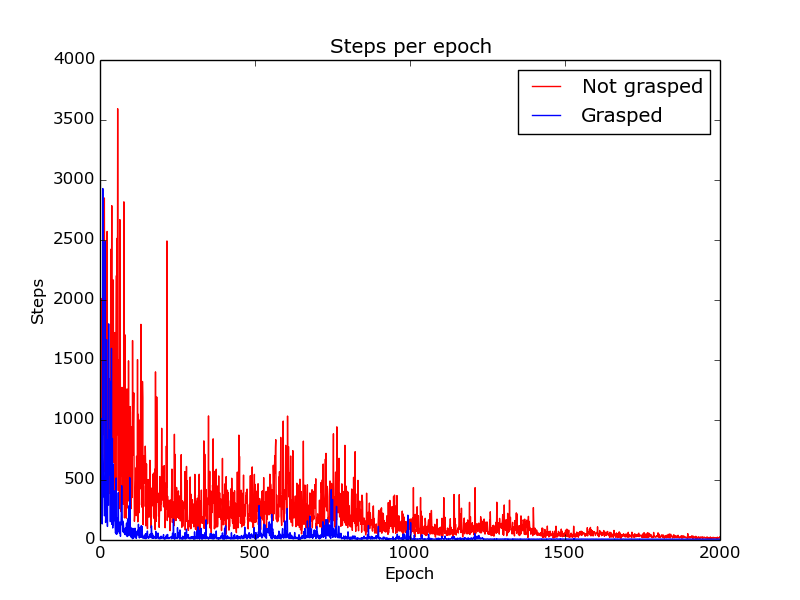
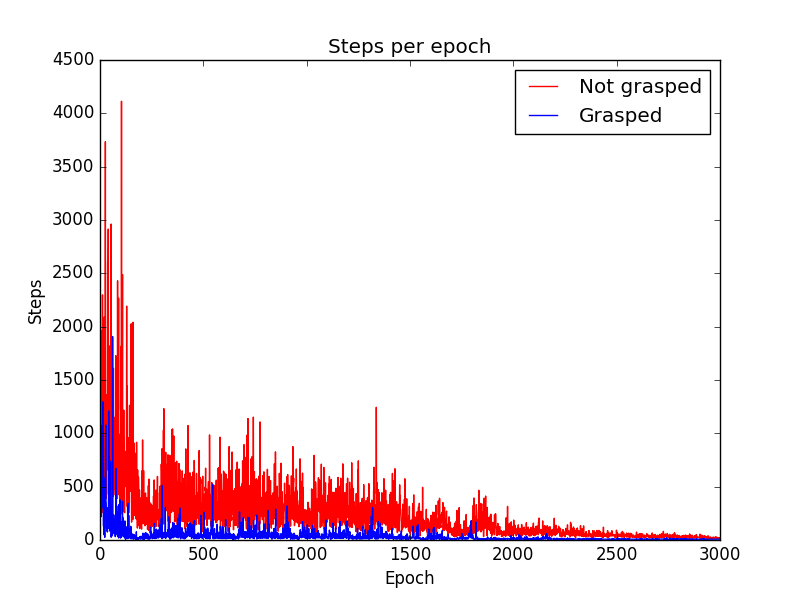
bla

diff --git a/Simulation/main.py b/Simulation/main.py
@@ -5,6 +5,7 @@ import agent as ag
 import numpy as np
 import matplotlib.pyplot as plt
 import math
+import statistics
 
 
 def updateWorld(agents, world, steps, epoch):
@@ -42,8 +43,6 @@ if __name__ == "__main__":
         print("You've selection action selection style: ", actionStyle)
 
     # Some parameters
-    # actionStyle = "greedy"
-    # actionStyle = "exponent"
     epsilon = 0.9
     startTau = 0.99
     tau = startTau
@@ -78,48 +77,73 @@ if __name__ == "__main__":
     world.print_map()
 
     # Simulation settings
-    epochs = 2000
+    epochs = 3000
+    runs = 50
     steps = np.zeros((2, epochs))
+    convergence = np.zeros((2, runs))
+    stdev = np.zeros((2, epochs))
+    for run in range(runs):
+        print(run)
+        for epoch in range(epochs):
+            #print(epoch)
 
-    for epoch in range(epochs):
-        print(epoch)
-        
-        # Set the agents to their starting positions
-        for agent in agents:
-            agent.reset()
-
-        # Create the world and everything in it
-        world = w.World(rows, columns, goals, walls, block, start)
-        world.add_objects()
-
-        while not any([world.block == g for g in goals]):
-            # Save the current state
+            # Set the agents to their starting positions
             for agent in agents:
-                agent.prevState = agent.state
+                agent.reset()
 
-            # Choose an action for every agent
-            if actionStyle == "greedy":
-                [agent.chooseGreedyAction(epsilon, world) for agent in agents]
-            else:
-                [agent.chooseAction(tau, world) for agent in agents]
+            # Create the world and everything in it
+            world = w.World(rows, columns, goals, walls, block, start)
+            world.add_objects()
 
-            # Perform the chosen actions (and obtain rewards)
-            world = updateWorld(agents, world, steps, epoch)
-            # Update the Q-values of the agents
-            [agent.updateQ(alpha, gamma) for agent in agents]
+            while not any([world.block == g for g in goals]):
+                # Save the current state
+                for agent in agents:
+                    agent.prevState = agent.state
 
-            if(epoch == epochs - 1):
-                world.print_map()
+                # Choose an action for every agent
+                if actionStyle == "greedy":
+                    [agent.chooseGreedyAction(epsilon, world) for agent in agents]
+                else:
+                    [agent.chooseAction(tau, world) for agent in agents]
 
-        tau -= (startTau-0.1) / epochs
+                # Perform the chosen actions (and obtain rewards)
+                world = updateWorld(agents, world, steps, epoch)
+                # Update the Q-values of the agents
+                [agent.updateQ(alpha, gamma) for agent in agents]
 
+                if(epoch == epochs - 1):
+                    world.print_map()
+
+            tau -= (startTau-0.1) / epochs
+
+            if epoch >= 20:
+                stdev[0][epoch] = statistics.stdev(steps[0][(epoch-20):epoch])
+                stdev[1][epoch] = statistics.stdev(steps[1][(epoch-20):epoch])
+
+                if environment == "complex":
+                    if stdev[0][epoch] < 4:
+                        convergence[0][run] = epoch
+                    if stdev[0][epoch] < 2:
+                        convergence[1][run] = epoch
+
+    print("Convergence at grabbed:", convergence[0])
+    print("Convergence grabbed:", [convergence[1]])
 
     for index, agent in enumerate(agents):
         print("Agent: ", index)
         agent.print_policy(world)
 
-    # print(steps)
     plt.figure(1)
+    plt.plot(range(epochs), stdev[0], 'r-', range(epochs), stdev[1], 'b-')
+    plt.title('Standard deviation over 20 epochs')
+    plt.xlabel('Epoch')
+    plt.ylabel('Standard deviation')
+    plt.legend(['Not grasped', 'Grasped'])
+    plt.draw()
+    plt.show()
+
+    # print(steps)
+    plt.figure(2)
     plt.plot(range(epochs), steps[0], 'r-', range(epochs), steps[1], 'b-')
     plt.title('Steps per epoch')
     plt.xlabel('Epoch')
@@ -128,7 +152,7 @@ if __name__ == "__main__":
     plt.draw()
     plt.savefig('SingleQ.png')
     
-    plt.figure(2)
+    plt.figure(3)
     smooth = math.ceil(epochs * 0.1)
     plt.plot(
         range(epochs-smooth+1),

diff --git a/Simulation/teamMain.py b/Simulation/teamMain.py
@@ -78,7 +78,7 @@ if __name__ == "__main__":
     world.print_map()
 
     # Simulation settings
-    epochs = 2000
+    epochs = 5000
     steps = np.zeros((2, epochs))
 
     for epoch in range(epochs):
@@ -109,9 +109,6 @@ if __name__ == "__main__":
             world = updateWorld(agents, world, steps, epoch)
             # Update the Q-values of the agents
             [agent.updateQ(alpha, gamma) for agent in agents]
-           
-            if steps[0][epoch] > 10000 or steps[1][epoch] > 10000:
-                print("Took too long")
         
         tau -= (startTau-0.1) / epochs
     
@@ -123,6 +120,7 @@ if __name__ == "__main__":
     plt.ylabel('Steps')
     plt.legend(['Not grasped', 'Grasped'])
     plt.draw()
+    plt.show()
     plt.savefig('TeamQ.png')
     
     plt.figure(2)
@@ -140,4 +138,5 @@ if __name__ == "__main__":
     plt.ylabel('Steps')
     plt.legend(['Not grasped', 'Grasped'])
     plt.draw()
+    plt.show()
     plt.savefig('TeamQ_smoothed.png')
